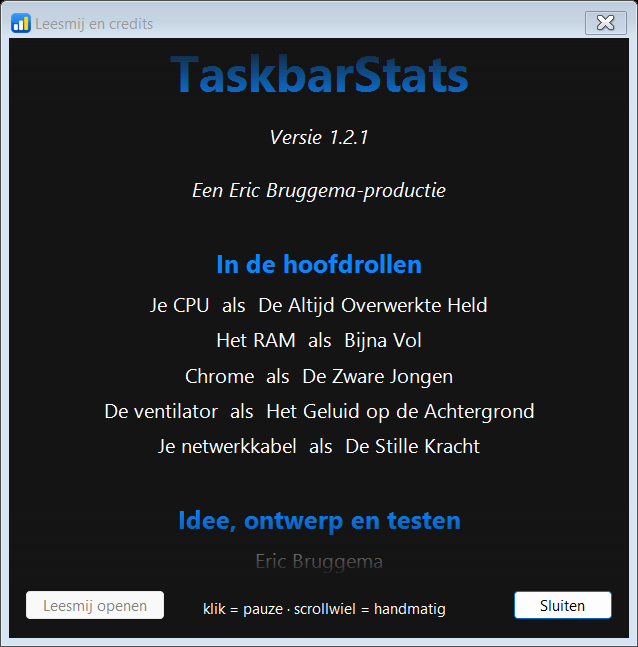
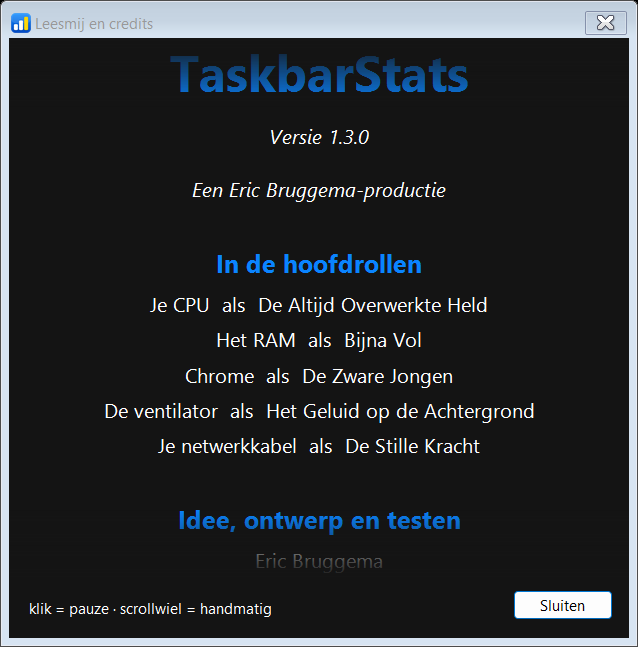
Credits: Sluiten werkt, Leesmij-knop weg

Changed region(s): [[0.0298, 0.8964, 0.7147, 0.9583], [0.5361, 0.1855, 0.5956, 0.2164]]

diff --git a/src/CreditsForm.cs b/src/CreditsForm.cs
@@ -67,13 +67,10 @@ public sealed class CreditsForm : Form
         _stage.MouseWheel += (_, e) => _y = Math.Max(-_stage.Height, _y + e.Delta / 2f);
 
         var bar = new Panel { Dock = DockStyle.Fill, BackColor = _bg };
-        var readme = new Button { Text = Loc.Pick("Leesmij openen", "Open readme"), Location = new Point(16, 12), Size = new Size(140, 30), FlatStyle = FlatStyle.System };
-        string file = Path.Combine(AppContext.BaseDirectory, "Leesmij.txt");
-        readme.Enabled = File.Exists(file);
-        readme.Click += (_, _) => { try { Process.Start(new ProcessStartInfo(file) { UseShellExecute = true }); } catch { } };
-        var close = new Button { Text = Loc.Pick("Sluiten", "Close"), DialogResult = DialogResult.Cancel, Location = new Point(504, 12), Size = new Size(100, 30), FlatStyle = FlatStyle.System };
-        var hint = new Label { Text = Loc.Pick("klik = pauze · scrollwiel = handmatig", "click = pause · wheel = scroll"), AutoSize = true, ForeColor = Color.FromArgb(140, _fg), Location = new Point(190, 20) };
-        bar.Controls.AddRange(new Control[] { readme, close, hint });
+        var close = new Button { Text = Loc.Pick("Sluiten", "Close"), Location = new Point(504, 12), Size = new Size(100, 30), FlatStyle = FlatStyle.System };
+        var hint = new Label { Text = Loc.Pick("klik = pauze · scrollwiel = handmatig", "click = pause · wheel = scroll"), AutoSize = true, ForeColor = Color.FromArgb(140, _fg), Location = new Point(16, 20) };
+        close.Click += (_, _) => Close();   // het venster is niet modaal: DialogResult alleen sluit hem niet
+        bar.Controls.AddRange(new Control[] { close, hint });
         CancelButton = close;
         Controls.Add(bar);
         Controls.Add(_stage);
@@ -151,7 +148,6 @@ public sealed class CreditsForm : Form
         var j = Jokes[Random.Shared.Next(Jokes.Length)];
         L(K.Sub, Loc.Pick(j.nl, j.en));
         L(K.Gap, ""); L(K.Gap, "");
-        L(K.Fine, Loc.Pick("Klik op “Leesmij openen” voor de gebruiksaanwijzing.", "Click “Open readme” for the user guide."));
     }
 
     private static string N0(double v) => v.ToString("N0", CultureInfo.CurrentCulture);

diff --git a/README.md b/README.md
@@ -112,7 +112,7 @@ De installer:
 - registreert een uninstaller (ook in Instellingen → Apps) die de taak verwijdert en vraagt of
   je instellingen en verbruikslog (`%AppData%\TaskbarStats`) ook weg mogen.
 
-De app zelf heeft ook "Leesmij en credits" in het rechtermuisknop-menu: een rustig scrollende aftiteling met de credits, een paar cijfers uit je eigen verbruik (bijvoorbeeld hoeveel je hebt gedownload) en een grapje, plus een knop die het Leesmij opent.
+De app zelf heeft ook "Leesmij en credits" in het rechtermuisknop-menu: een rustig scrollende aftiteling met de credits, een paar cijfers uit je eigen verbruik (bijvoorbeeld hoeveel je hebt gedownload) en een grapje.
 
 ![Leesmij en credits](docs/screenshots/credits.png)
 
